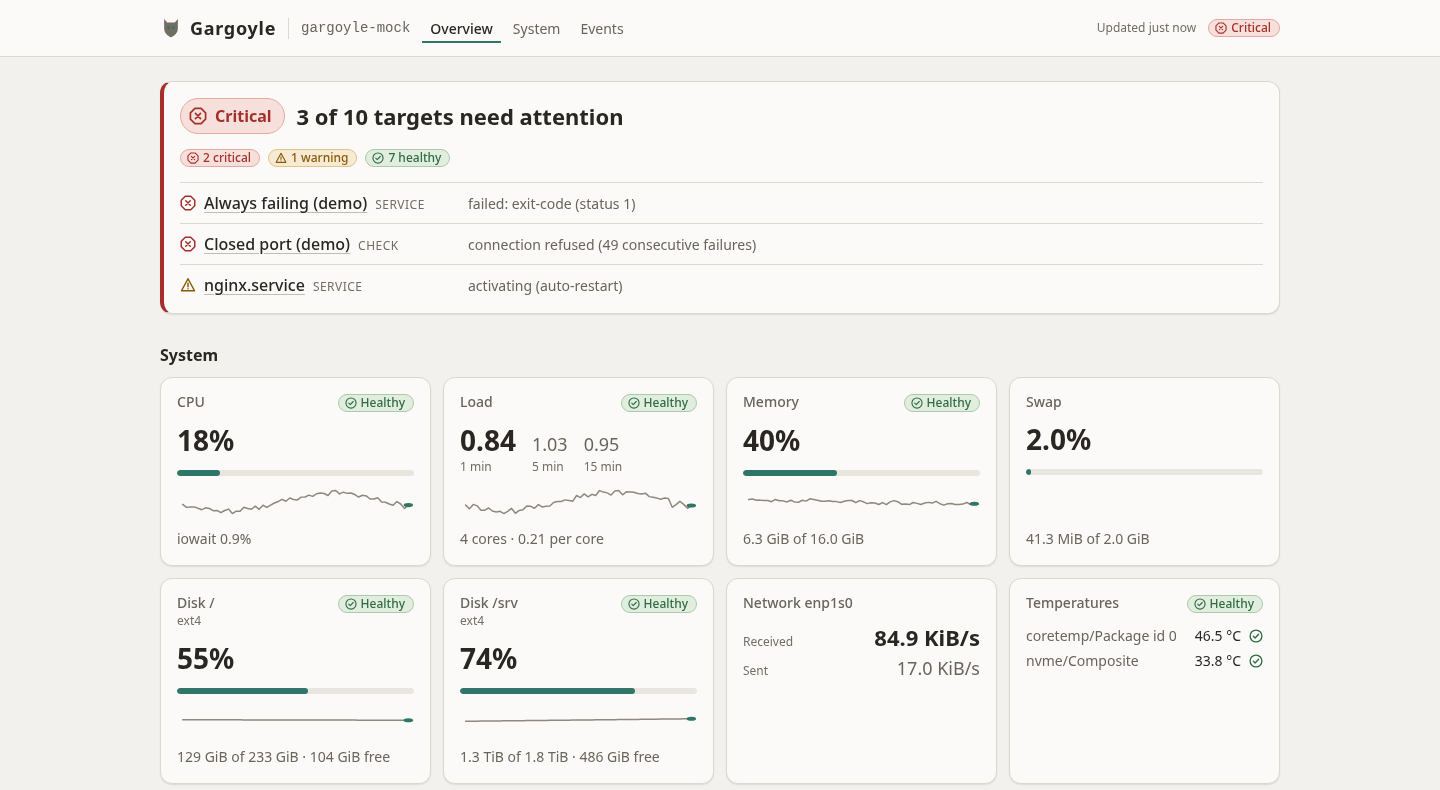
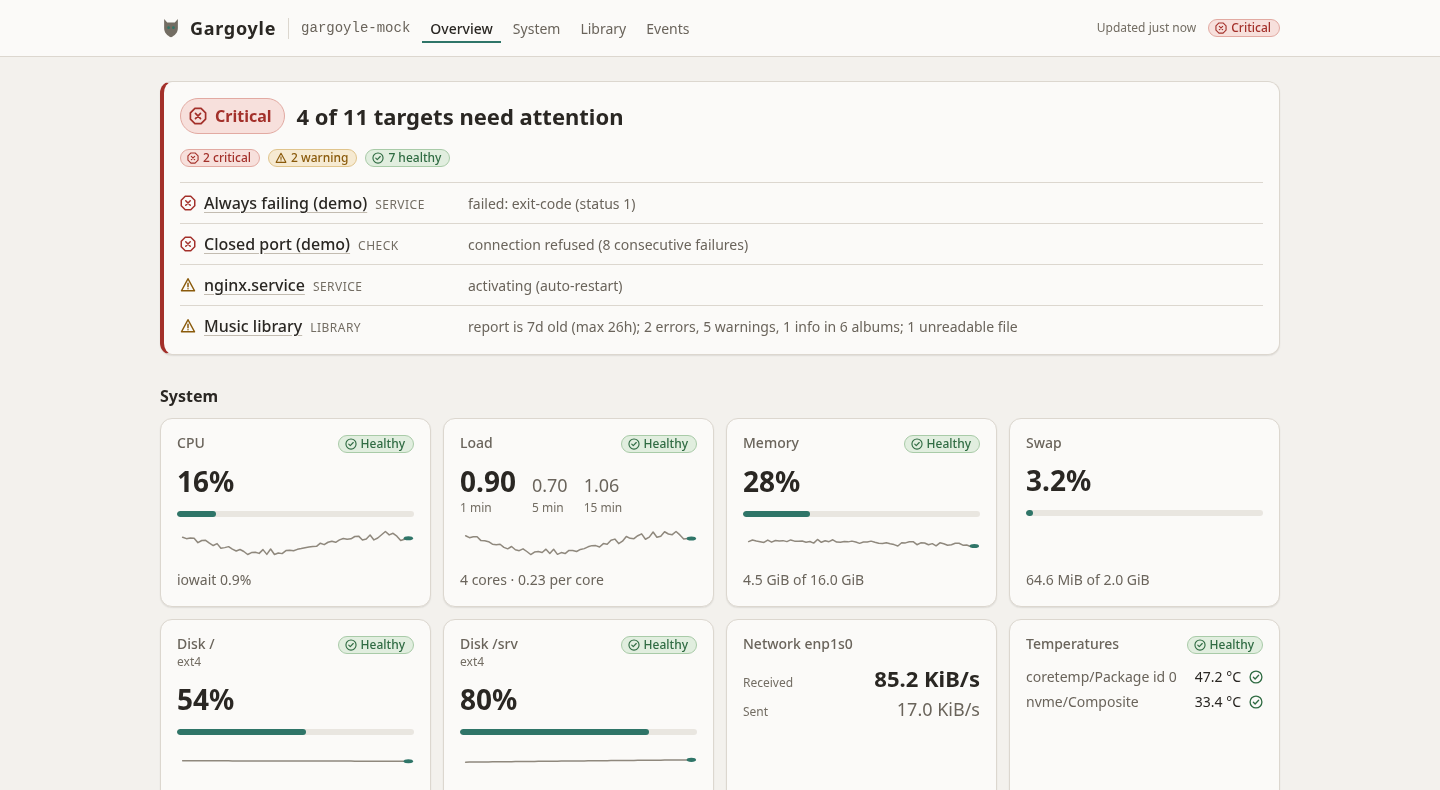
docs(m7): README, Library screenshot and verification of the Liner docs (M7.4)
- README: music library feature, Library page screenshot, overview screenshot
  refreshed with the library card (headless Chromium against the debug binary
  in mock mode, as for M6.6).
- DEPLOYMENT: precise --fail-on wording (Liner's default is `error`).
- ACCESSIBILITY: automated coverage and keyboard checklist for the Library page.
- KNOWN_ISSUES: Expand all can miss an album toggled twice within one moment.
- ROADMAP: M7.0-M7.4 done, M7.5 review open.

check-config was run against the CONFIG.md and DEPLOYMENT.md [library]
examples and each validation rule; the Liner units passed systemd-analyze
verify on scratch copies (only the missing /usr/local/bin/liner reported).

diff --git a/README.md b/README.md
@@ -3,7 +3,8 @@
 Gargoyle is a small, read-only monitoring dashboard for one personal Linux server. It is a single
 Rust binary with an embedded SQLite database and an embedded web UI: no agents, no exporters, no
 external database. It shows the host's system metrics, the systemd services and timers you care
-about, and a few HTTP/TCP checks, and keeps their history.
+about, a few HTTP/TCP checks and, optionally, the metadata health of a music library, and keeps
+their history.
 
 ![Overview page, light theme](docs/screenshots/overview.png)
 
@@ -18,6 +19,11 @@ about, and a few HTTP/TCP checks, and keeps their history.
 - **Checks:** HTTP(S) and TCP probes with latency thresholds and consecutive-failure counting.
 - **History:** charts for 1h, 6h, 24h, 7d, 30d and 1y. Full-resolution samples are kept for 48 hours
   and 5-minute rollups for 400 days by default.
+- **Music library:** the metadata health of a music library (missing or duplicate track numbers,
+  split albums, unreadable files and more), read from the JSON report of
+  [Liner](docs/DEPLOYMENT.md#music-library-report-liner), a separate linter that Gargoyle never
+  runs. Issues are grouped per album and filterable by severity; the library warns when the
+  report shows problems or gets too old, and is never critical.
 - **Events:** a log of every health change, filterable per target.
 - **Health:** every target is healthy, warning, critical or unknown with a short reason, rolled up
   into one overall state (rules in [ARCHITECTURE §8](docs/ARCHITECTURE.md#8-health-model)).
@@ -32,7 +38,10 @@ about, and a few HTTP/TCP checks, and keeps their history.
 |---|---|---|
 | ![System page, 24h range, dark theme](docs/screenshots/system-24h-dark.png) | ![Timer detail with run history](docs/screenshots/timer-detail.png) | ![Overview on a 360 px wide screen, dark theme](docs/screenshots/mobile-overview-dark.png) |
 
-The screenshots show the built-in mock collector, which generates demo data.
+![Library page with one album expanded, light theme](docs/screenshots/library.png)
+
+The screenshots show the built-in mock collector, which generates demo data, and the synthetic
+Liner report in `config/liner-report.dev.json`.
 
 ## Quick start: development
 

diff --git a/docs/ACCESSIBILITY.md b/docs/ACCESSIBILITY.md
@@ -6,7 +6,8 @@ a release and after any change to layout, tokens or navigation.
 ## Automated (runs in `make check`)
 
 - `src/a11y.test.ts`: axe-core in jsdom on the overview (normal, nothing configured, offline
-  on first load, loading), System, service, timer and check detail, an unknown timer, Events and
+  on first load, loading, without a library), System, service, timer and check detail, an
+  unknown timer, Library (normal, filtered, no valid report, not configured), Events and
   not-found. Fails on any **serious** or **critical** violation. jsdom has no layout, so
   `color-contrast` is disabled there and checked by hand below.
 - `src/csp.test.ts`: no inline `<script>`, no inline `style="…"` attributes, no runtime `<style>`
@@ -31,6 +32,16 @@ Use a real browser, no mouse. Do it at desktop width and at 360px.
       keeps focus on that select.
 - [ ] Charts: **Show table** is reachable, toggles with <kbd>Enter</kbd>/<kbd>Space</kbd>, and
       announces its expanded state.
+- [ ] Overview: the library card's link and the library row in "needs attention" open the
+      Library page with <kbd>Enter</kbd>. Without `[library]` there is no Library nav entry.
+- [ ] Library: tab order is the severity filter (All, Warnings and errors, Errors only),
+      **Expand all**, **Collapse all**, then each album summary. The current filter is marked
+      (`aria-current`); choosing one with <kbd>Enter</kbd> updates the URL (`?severity=…`) and
+      keeps focus on it.
+- [ ] Library: each album summary opens and closes with <kbd>Enter</kbd> and <kbd>Space</kbd>,
+      and **Expand all**/**Collapse all** open and close every shown album without moving focus.
+      Issue severities show an icon and text, not color alone. At 360px the paths wrap and the
+      page has no horizontal scroll.
 - [ ] Events: **Load older events** is reachable. Offline banner: **Retry now** is reachable.
       401 banner: **Reload** is reachable.
 

diff --git a/docs/ROADMAP.md b/docs/ROADMAP.md
@@ -23,7 +23,7 @@ the same change.
 | M4 Checks & health polish | ✅ Done (2026-11-08) |
 | M5 Security hardening | ✅ Done (2026-11-08) |
 | M6 Packaging & docs | ✅ Done, Debian install test pending (2026-11-08) |
-| M7 Music library report (Liner) | 🔵 Contract frozen (M7.0, 2026-11-08); M7.1–M7.5 open |
+| M7 Music library report (Liner) | 🔵 M7.0–M7.4 done (2026-11-08); M7.5 review open |
 
 ---
 
@@ -413,6 +413,14 @@ change the contract to make them green. A needed change goes back to the coordin
 - **M7.5** Independent review of the whole milestone, including a security pass over the new
   file-read path (size cap, file type, no path or `root` in responses, messages as text in the
   UI).
+
+**Status (2026-11-08).** M7.0–M7.3 are merged. M7.4 is done: README and screenshots (Library
+page, and the overview refreshed now that it has a library card), `check-config` run with the
+CONFIG.md and DEPLOYMENT.md `[library]` examples and each validation rule, a real `liner scan`
+report served end to end (unreadable file, rename, deletion, `chmod 000` and back), and the two
+Liner units verified with `systemd-analyze verify` on scratch copies (clean apart from
+`/usr/local/bin/liner` not existing on the dev box). One minor Library page issue went to
+KNOWN_ISSUES. The acceptance list below is left for the M7.5 review to tick.
 
 **Parallel.** M7.1 → M7.2 (backend developer) ∥ M7.3 (frontend developer), then M7.4, then
 M7.5. The frontend develops against the example JSON first and against `make dev` once M7.2

diff --git a/docs/KNOWN_ISSUES.md b/docs/KNOWN_ISSUES.md
@@ -9,4 +9,5 @@ Keep entries short; remove them when fixed.
 | Collector | An unparseable optional systemd property logs a warning every units tick (no dedupe). | if noisy |
 | Health | iowait is shown but not part of health evaluation. | — |
 | Checks | A check's transitions are evaluated only after its own probe. If its loop ever stalled (probes are bounded by `timeout ≤ interval`, so it should not), the API would show `unknown` but no event would be logged. | — |
+| Web | Library page: when an album is opened and closed again within the same moment (two synthetic key presses with no delay in a headless browser; not reproduced with a real double-click), a following **Expand all** can leave that album closed. **Collapse all** then **Expand all** recovers. Found in the M7.4 keyboard pass; cause not investigated (likely the async `toggle` event against the `bind:open` getter/setter). | if seen in real use |
 | Checks | `https` checks trust only the built-in Mozilla roots (webpki-roots), so a target with a self-signed or internal-CA certificate always fails with an "invalid peer certificate" reason. | if needed |

diff --git a/docs/DEPLOYMENT.md b/docs/DEPLOYMENT.md
@@ -401,8 +401,9 @@ Nice=10
 IOSchedulingClass=idle
 ```
 
-- **`--fail-on never` is required.** Without it Liner exits 1 whenever the library has an issue,
-  and the timer shows as failed although the scan worked. Real failures (an unreadable library
+- **`--fail-on never` is required.** Without it Liner exits 1 whenever the library has an
+  error-level issue or an unreadable file (its default is `--fail-on error`), and the timer shows
+  as failed although the scan worked. Real failures (an unreadable library
   root, an unwritable report) still exit 2 and still fail the unit.
 - Do not add `--min-severity`: issues it hides are hidden from Gargoyle too. (The Library page
   says how many were hidden.)
